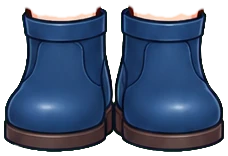
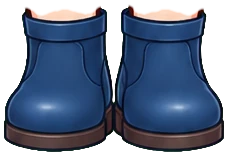
紙娃娃 v0.7：第二批部件（唱跳明星、足球、籃球明星、四隻夥伴），鞋子拆件保留白色足球襪

diff --git a/avatar-maker/index.html b/avatar-maker/index.html
@@ -3,7 +3,7 @@
 <head>
 <meta charset="utf-8">
 <meta name="viewport" content="width=device-width, initial-scale=1">
-<!-- 紙娃娃角色產生器 v0.6.1 2026-11-15 · Cona 老師的資訊教室
+<!-- 紙娃娃角色產生器 v0.7 2026-11-16 · Cona 老師的資訊教室
      這個檔案是 tools/build.py 由 src/app.html 產生的，要改請改 src/app.html 再執行：python tools/build.py
      v0.5：改用 AI 畫的圖（Codex 生圖、tools/make_raster_pack.py 拆圖層），畫風只留老師選的三種：日式可愛、日式漫畫、韓系貼圖；
            canvas 疊圖，膚色、髮色、衣服、褲子、鞋子用程式換色；舊的 SVG 版保留在 紙娃娃角色產生器_v0.4_2026-11-15.html（原始檔 src/app_svg_v0.4.html）
@@ -107,7 +107,7 @@ h1 small{font-family:var(--f-b);font-size:12px;color:var(--muted);margin-left:6p
 <div class="loading" id="loading">載入圖片中…</div>
 <div class="app">
   <header>
-    <h1>紙娃娃角色產生器<small>v0.6.1</small></h1>
+    <h1>紙娃娃角色產生器<small>v0.7</small></h1>
     <span class="lbl" id="sexLbl">角色</span>
     <span class="seg" role="group" aria-labelledby="sexLbl" id="sexSeg"><button type="button" data-sex="m">男生</button><button type="button" data-sex="f">女生</button><button type="button" data-sex="">全部</button></span>
     <span class="lbl" id="styleLbl">畫風</span>
@@ -165,7 +165,7 @@ h1 small{font-family:var(--f-b);font-size:12px;color:var(--muted);margin-left:6p
         <p class="hint">主播包：閉嘴、張嘴、眨眼三張圖＋會說話的 GIF＋角色代碼。</p>
         <div id="results" aria-live="polite"></div>
       </section>
-      <div class="foot">Cona 老師的資訊教室 · v0.6.1 · 2026-11-15 · 圖：Codex 生成</div>
+      <div class="foot">Cona 老師的資訊教室 · v0.7 · 2026-11-16 · 圖：Codex 生成</div>
     </div>
   </div>
 </div>
@@ -174,7 +174,7 @@ h1 small{font-family:var(--f-b);font-size:12px;color:var(--muted);margin-left:6p
 <script>
 (function(){
 'use strict';
-const VERSION='0.6.1', DATE='2026-11-15';
+const VERSION='0.7', DATE='2026-11-16';
 const EMBED=/*@@EMBED@@*/null;   /* 離線版：{畫風:{pack, img:{名稱:dataURL}}} */
 const $=id=>document.getElementById(id);
 const CAT_ORDER=['face','hair','top','bottom','shoes','hat','glasses','hand','pet'];
@@ -192,8 +192,8 @@ const SOLID={white:'#ffffff',pink:'#ffe0ea',yellow:'#fff3c4',mint:'#d8f5e6',blue
 const KEY='dq-avatar-v5';
 /* 男生／女生：照款式名稱分，沒列到的兩邊都有。選「全部」時所有款式都能用 */
 const SEX_ONLY={
-  f:['齊瀏海長直髮','雙馬尾','高馬尾','丸子頭','鮑伯頭','單邊辮子','超長直髮＋呆毛','雙丸子長辮','水手服','主播套裝','襯衫領結','百褶裙','舞台短裙','蝴蝶結','兔耳髮箍'],
-  m:['清爽短髮','刺蝟頭','中分','主播西裝','西裝褲']};
+  f:['齊瀏海長直髮','雙馬尾','高馬尾','丸子頭','鮑伯頭','單邊辮子','超長直髮＋呆毛','雙丸子長辮','水手服','主播套裝','襯衫領結','百褶裙','舞台短裙','蝴蝶結','兔耳髮箍','公主切長髮','高雙馬尾＋髮圈','半紮側編髮','星星髮夾'],
+  m:['清爽短髮','刺蝟頭','中分','主播西裝','西裝褲','韓系逗號瀏海','偶像碎蓋']};
 const SEX_DEF={m:{hair:'清爽短髮',top:'主播西裝'},f:{hair:'齊瀏海長直髮',top:'水手服',bottom:'百褶裙'}};
 const okSex=(o,sx)=>!sx||!(SEX_ONLY[sx==='m'?'f':'m'].includes(o.name));
 const optsOf=(c,sx=state&&state.sex)=>PACK.cats[c].opts.filter(o=>okSex(o,sx));

diff --git a/avatar-maker/src/app.html b/avatar-maker/src/app.html
@@ -192,8 +192,8 @@ const SOLID={white:'#ffffff',pink:'#ffe0ea',yellow:'#fff3c4',mint:'#d8f5e6',blue
 const KEY='dq-avatar-v5';
 /* 男生／女生：照款式名稱分，沒列到的兩邊都有。選「全部」時所有款式都能用 */
 const SEX_ONLY={
-  f:['齊瀏海長直髮','雙馬尾','高馬尾','丸子頭','鮑伯頭','單邊辮子','超長直髮＋呆毛','雙丸子長辮','水手服','主播套裝','襯衫領結','百褶裙','舞台短裙','蝴蝶結','兔耳髮箍'],
-  m:['清爽短髮','刺蝟頭','中分','主播西裝','西裝褲']};
+  f:['齊瀏海長直髮','雙馬尾','高馬尾','丸子頭','鮑伯頭','單邊辮子','超長直髮＋呆毛','雙丸子長辮','水手服','主播套裝','襯衫領結','百褶裙','舞台短裙','蝴蝶結','兔耳髮箍','公主切長髮','高雙馬尾＋髮圈','半紮側編髮','星星髮夾'],
+  m:['清爽短髮','刺蝟頭','中分','主播西裝','西裝褲','韓系逗號瀏海','偶像碎蓋']};
 const SEX_DEF={m:{hair:'清爽短髮',top:'主播西裝'},f:{hair:'齊瀏海長直髮',top:'水手服',bottom:'百褶裙'}};
 const okSex=(o,sx)=>!sx||!(SEX_ONLY[sx==='m'?'f':'m'].includes(o.name));
 const optsOf=(c,sx=state&&state.sex)=>PACK.cats[c].opts.filter(o=>okSex(o,sx));

diff --git a/avatar-maker/tools/make_raster_pack.py b/avatar-maker/tools/make_raster_pack.py
@@ -8,17 +8,17 @@
 import json, os, sys, shutil, subprocess, tempfile
 
 STYLES = {'kawaii': '日式可愛', 'anime': '日式漫畫', 'sticker': '韓系貼圖'}
-FACES = ['微笑', '開心大笑', '酷酷', '害羞', '驚訝', '生氣', '眨眼得意', '愛心眼']
-HAIR = ['清爽短髮', '刺蝟頭', '中分', '旁分瀏海', '齊瀏海長直髮', '雙馬尾', '高馬尾', '丸子頭', '鮑伯頭', '單邊辮子', '蓬鬆捲髮', '層次狼尾', '超長直髮＋呆毛', '雙丸子長辮']
+FACES = ['微笑', '開心大笑', '酷酷', '害羞', '驚訝', '生氣', '眨眼得意', '愛心眼', '星星眼', '亮晶晶大眼']
+HAIR = ['清爽短髮', '刺蝟頭', '中分', '旁分瀏海', '齊瀏海長直髮', '雙馬尾', '高馬尾', '丸子頭', '鮑伯頭', '單邊辮子', '蓬鬆捲髮', '層次狼尾', '超長直髮＋呆毛', '雙丸子長辮', '韓系逗號瀏海', '偶像碎蓋', '公主切長髮', '高雙馬尾＋髮圈', '半紮側編髮']
 TOPS = ['主播西裝', '帽 T', '水手服', '運動球衣', '制服背心', '條紋 T 恤', '毛衣', '偶像舞台裝', '醫師袍', '廚師服', '太空衣', '魔法袍',
         '主播套裝', '襯衫領結', '潮 T', '時尚短外套', '針織背心', '亮片舞台外套', '足球衣', '籃球衣',
-        '和風羽織', '科技偶像外套', '小耳朵斗篷']
+        '和風羽織', '科技偶像外套', '小耳朵斗篷', '街頭連帽外套', '棒球外套', '偶像禮服外套', '反光科技外套']
 BOTTOMS = ['西裝褲', '牛仔褲', '百褶裙', '長褲', '舞台短裙', '皮褲', '運動短褲', '籃球褲']
 SHOES = ['皮鞋', '短靴', '舞台靴', '足球鞋', '籃球鞋']
-HATS = ['主播耳麥', '頭戴耳機', '棒球帽', '貝雷帽', '漁夫帽', '頭戴麥克風', '蝴蝶結', '運動頭帶', '貓耳髮箍', '狐狸耳髮箍', '兔耳髮箍', '天使光環', '小惡魔角']
-GLASSES = ['圓框眼鏡', '方框眼鏡', '太陽眼鏡', '臉頰星星貼紙', '科技單眼鏡片']
-ITEMS = ['麥克風', '新聞稿', '自拍手機', '遊戲手把', '攝影機', '相機', '珍珠奶茶', '螢光棒', '足球', '籃球', '獎盃', '直播麥克風', '星星魔法棒']
-PETS = ['小貓', '小狗', '小兔', '小機器人', '飄浮小精靈', '迷你小龍']
+HATS = ['主播耳麥', '頭戴耳機', '棒球帽', '貝雷帽', '漁夫帽', '頭戴麥克風', '蝴蝶結', '運動頭帶', '貓耳髮箍', '狐狸耳髮箍', '兔耳髮箍', '天使光環', '小惡魔角', '貓耳耳機', '星星髮夾', '毛帽']
+GLASSES = ['圓框眼鏡', '方框眼鏡', '太陽眼鏡', '臉頰星星貼紙', '科技單眼鏡片', 'OK繃貼紙', '愛心墨鏡']
+ITEMS = ['麥克風', '新聞稿', '自拍手機', '遊戲手把', '攝影機', '相機', '珍珠奶茶', '螢光棒', '足球', '籃球', '獎盃', '直播麥克風', '星星魔法棒', '愛心應援手燈', '彩虹棉花糖']
+PETS = ['小貓', '小狗', '小兔', '小機器人', '飄浮小精靈', '迷你小龍', '水豚', '小幽靈', '果凍史萊姆']
 # 分類：(id, 名稱, 檔名前綴, 款式名, 可以不要時的名字, 換色方式)
 CATS = [('face', '表情', 'face', FACES, None, None), ('hair', '髮型', 'hair', HAIR, '光頭', 'all'), ('top', '上衣', 'top', TOPS, None, 'main'),
         ('bottom', '下身', 'bottom', BOTTOMS, '灰短褲', 'main'), ('shoes', '鞋子', 'shoes', SHOES, '白球鞋', 'main'), ('hat', '帽子頭飾', 'hat', HATS, '不要', None),
@@ -35,7 +35,7 @@ def main():
         tmp = tempfile.mkdtemp()
         shutil.copy(os.path.join(case, 'art', 'R1', f'base_{st}.png'), os.path.join(tmp, 'base.png'))
         # 只收已驗收的輪次（環境變數 ROUNDS 可指定，例如 ROUNDS=R2,R3,R3b；避免把 Codex 還在畫的半成品包進去）
-        for r in os.environ.get('ROUNDS', 'R2,R3,R3b,R4').split(','):
+        for r in os.environ.get('ROUNDS', 'R2,R3,R3b,R4,R5').split(','):
             d = os.path.join(case, 'art', r, st)
             if os.path.isdir(d):
                 for f in os.listdir(d):

diff --git a/avatar-maker/tools/raster_parts.py b/avatar-maker/tools/raster_parts.py
@@ -1,5 +1,5 @@
 #!/usr/bin/env python3
-"""點陣部件處理 v1.1 2026-11-15（對位會和「不移動」比較取好的；細線部件不被當雜點）：把 Codex 生的「人台＋某部件」圖，去背、對齊人台、減掉人台，拆出單一部件圖層。
+"""點陣部件處理 v1.2 2026-11-16（鞋子門檻降到 12，白襪不會被當成淺膚色；對位會和「不移動」比較取好的；細線部件不被當雜點）：把 Codex 生的「人台＋某部件」圖，去背、對齊人台、減掉人台，拆出單一部件圖層。
 用法：python tools/raster_parts.py <Codex 圖資料夾> <輸出資料夾> [--debug <除錯圖資料夾>]
 輸入（1024×1536、純綠底）：base.png、hair_N.png、top_N.png、face_X_closed|open|blink.png；items.png（1024×1024 四格）
 輸出：base.webp＋每個部件裁切後的 webp，以及 parts.json（每張的位置 x, y, w, h）
@@ -203,7 +203,7 @@ def main():
         elif n.startswith('bottom_'):
             plan.append((f, n, (yy < frac(.45)) | feet, legs & ~feet | (legs & (yy < frac(.90))), 22))
         elif n.startswith('shoes_'):
-            plan.append((f, n, yy < frac(.70), yy > frac(.72), 22))
+            plan.append((f, n, yy < frac(.70), yy > frac(.72), 12))   # 白襪和淺膚色差不到 22（kawaii 足球襪會不見）
         elif n.startswith('hat_'):
             plan.append((f, n, yy > R['neck'] + 40, headz, 22))
         elif n.startswith('glasses_'):

diff --git a/avatar-maker/tools/build.py b/avatar-maker/tools/build.py
@@ -11,8 +11,8 @@ v0.4 以前的 SVG 版：src/app_svg_v0.4.html，產生程式 make_flat.py／mak
 """
 import base64, json, os
 
-VERSION = '0.6.1'
-DATE = '2026-11-15'
+VERSION = '0.7'
+DATE = '2026-11-16'
 
 ROOT = os.path.dirname(os.path.dirname(os.path.abspath(__file__)))
 os.chdir(ROOT)

diff --git a/README.md b/README.md
@@ -13,6 +13,7 @@
 - 2026-11-15　紙娃娃角色產生器 v0.5：改用 AI 畫的圖（Codex 生圖，交接站 AVA-03），畫風只留老師選的日式可愛、日式漫畫、韓系貼圖；表情 8 組、髮型 12、上衣 12（日式漫畫 10）；膚色／髮色／衣服換色；擦除遮罩；角色代碼 DQ5（存檔 `紙娃娃角色產生器_v0.5_2026-11-15.html`、離線版 `紙娃娃角色產生器_離線版_v0.5_2026-11-15.html`；舊 SVG 版留在 v0.4 存檔）；外觀清單 v1.1（播報員、YouTuber、博主優先）
 - 2026-11-15　紙娃娃角色產生器 v0.6：第一批「播報員、YouTuber、博主」＋老師追加的 VTuber 外觀上線（三種畫風各加 下身 4、鞋 2、帽子頭飾 10、眼鏡臉飾 5、手持物 9（右手真的握著）、夥伴 2、上衣 8、髮型 2）；新增「直播間」背景；拆件程式 raster_parts v1.1（對位防歪、細線部件、帽簷陰影）（存檔 `紙娃娃角色產生器_v0.6_2026-11-15.html`、離線版 `紙娃娃角色產生器_離線版_v0.6_2026-11-15.html`）；外觀清單 v1.2
 - 2026-11-15　紙娃娃角色產生器 v0.6.1：上方加「男生／女生／全部」切換（只列該性別的髮型、上衣、下身，隨機搭配也照著選；角色代碼會記住）；戴棒球帽、貝雷帽、漁夫帽時頭髮不再穿出帽子（存檔 `紙娃娃角色產生器_v0.6.1_2026-11-15.html`、離線版 `紙娃娃角色產生器_離線版_v0.6.1_2026-11-15.html`）
+- 2026-11-16　紙娃娃角色產生器 v0.7：第二批部件——唱跳明星（亮片舞台外套、舞台短裙、亮面皮褲、舞台靴、頭戴麥克風、螢光棒）、足球（球衣、短褲、足球襪＋釘鞋、足球）、籃球明星（球衣、籃球褲、籃球鞋、運動頭帶、籃球、獎盃）、蝴蝶結，夥伴加小貓、小狗、小兔、小機器人；三種畫風各 21 件（存檔 `紙娃娃角色產生器_v0.7_2026-11-16.html`、離線版 `紙娃娃角色產生器_離線版_v0.7_2026-11-16.html`）
 - 2026-11-15　紙娃娃畫風選秀 v1.0：`avatar-maker/proto/styles.html`，十種畫風樣張（Codex 生圖，交接站 AVA-02），給老師挑畫風
 - 2026-11-15　紙娃娃 AI 畫風樣品 v0.1：`avatar-maker/proto/`，部件由 Codex 生圖（人台＋髮型 4、上衣 4、臉 3 組、手持物 4），`tools/raster_parts.py` 去背、對齊人台、拆圖層，網頁換色＋說話預覽
 - 2026-11-15　紙娃娃角色產生器 v0.4：新增畫風「手繪線條風」（Codex 製作，94 個部件，格式 2）；離線版包含三種畫風；交接文件 v1.1（存檔 `紙娃娃角色產生器_v0.4_2026-11-15.html`、`紙娃娃角色產生器_離線版_v0.4_2026-11-15.html`）
